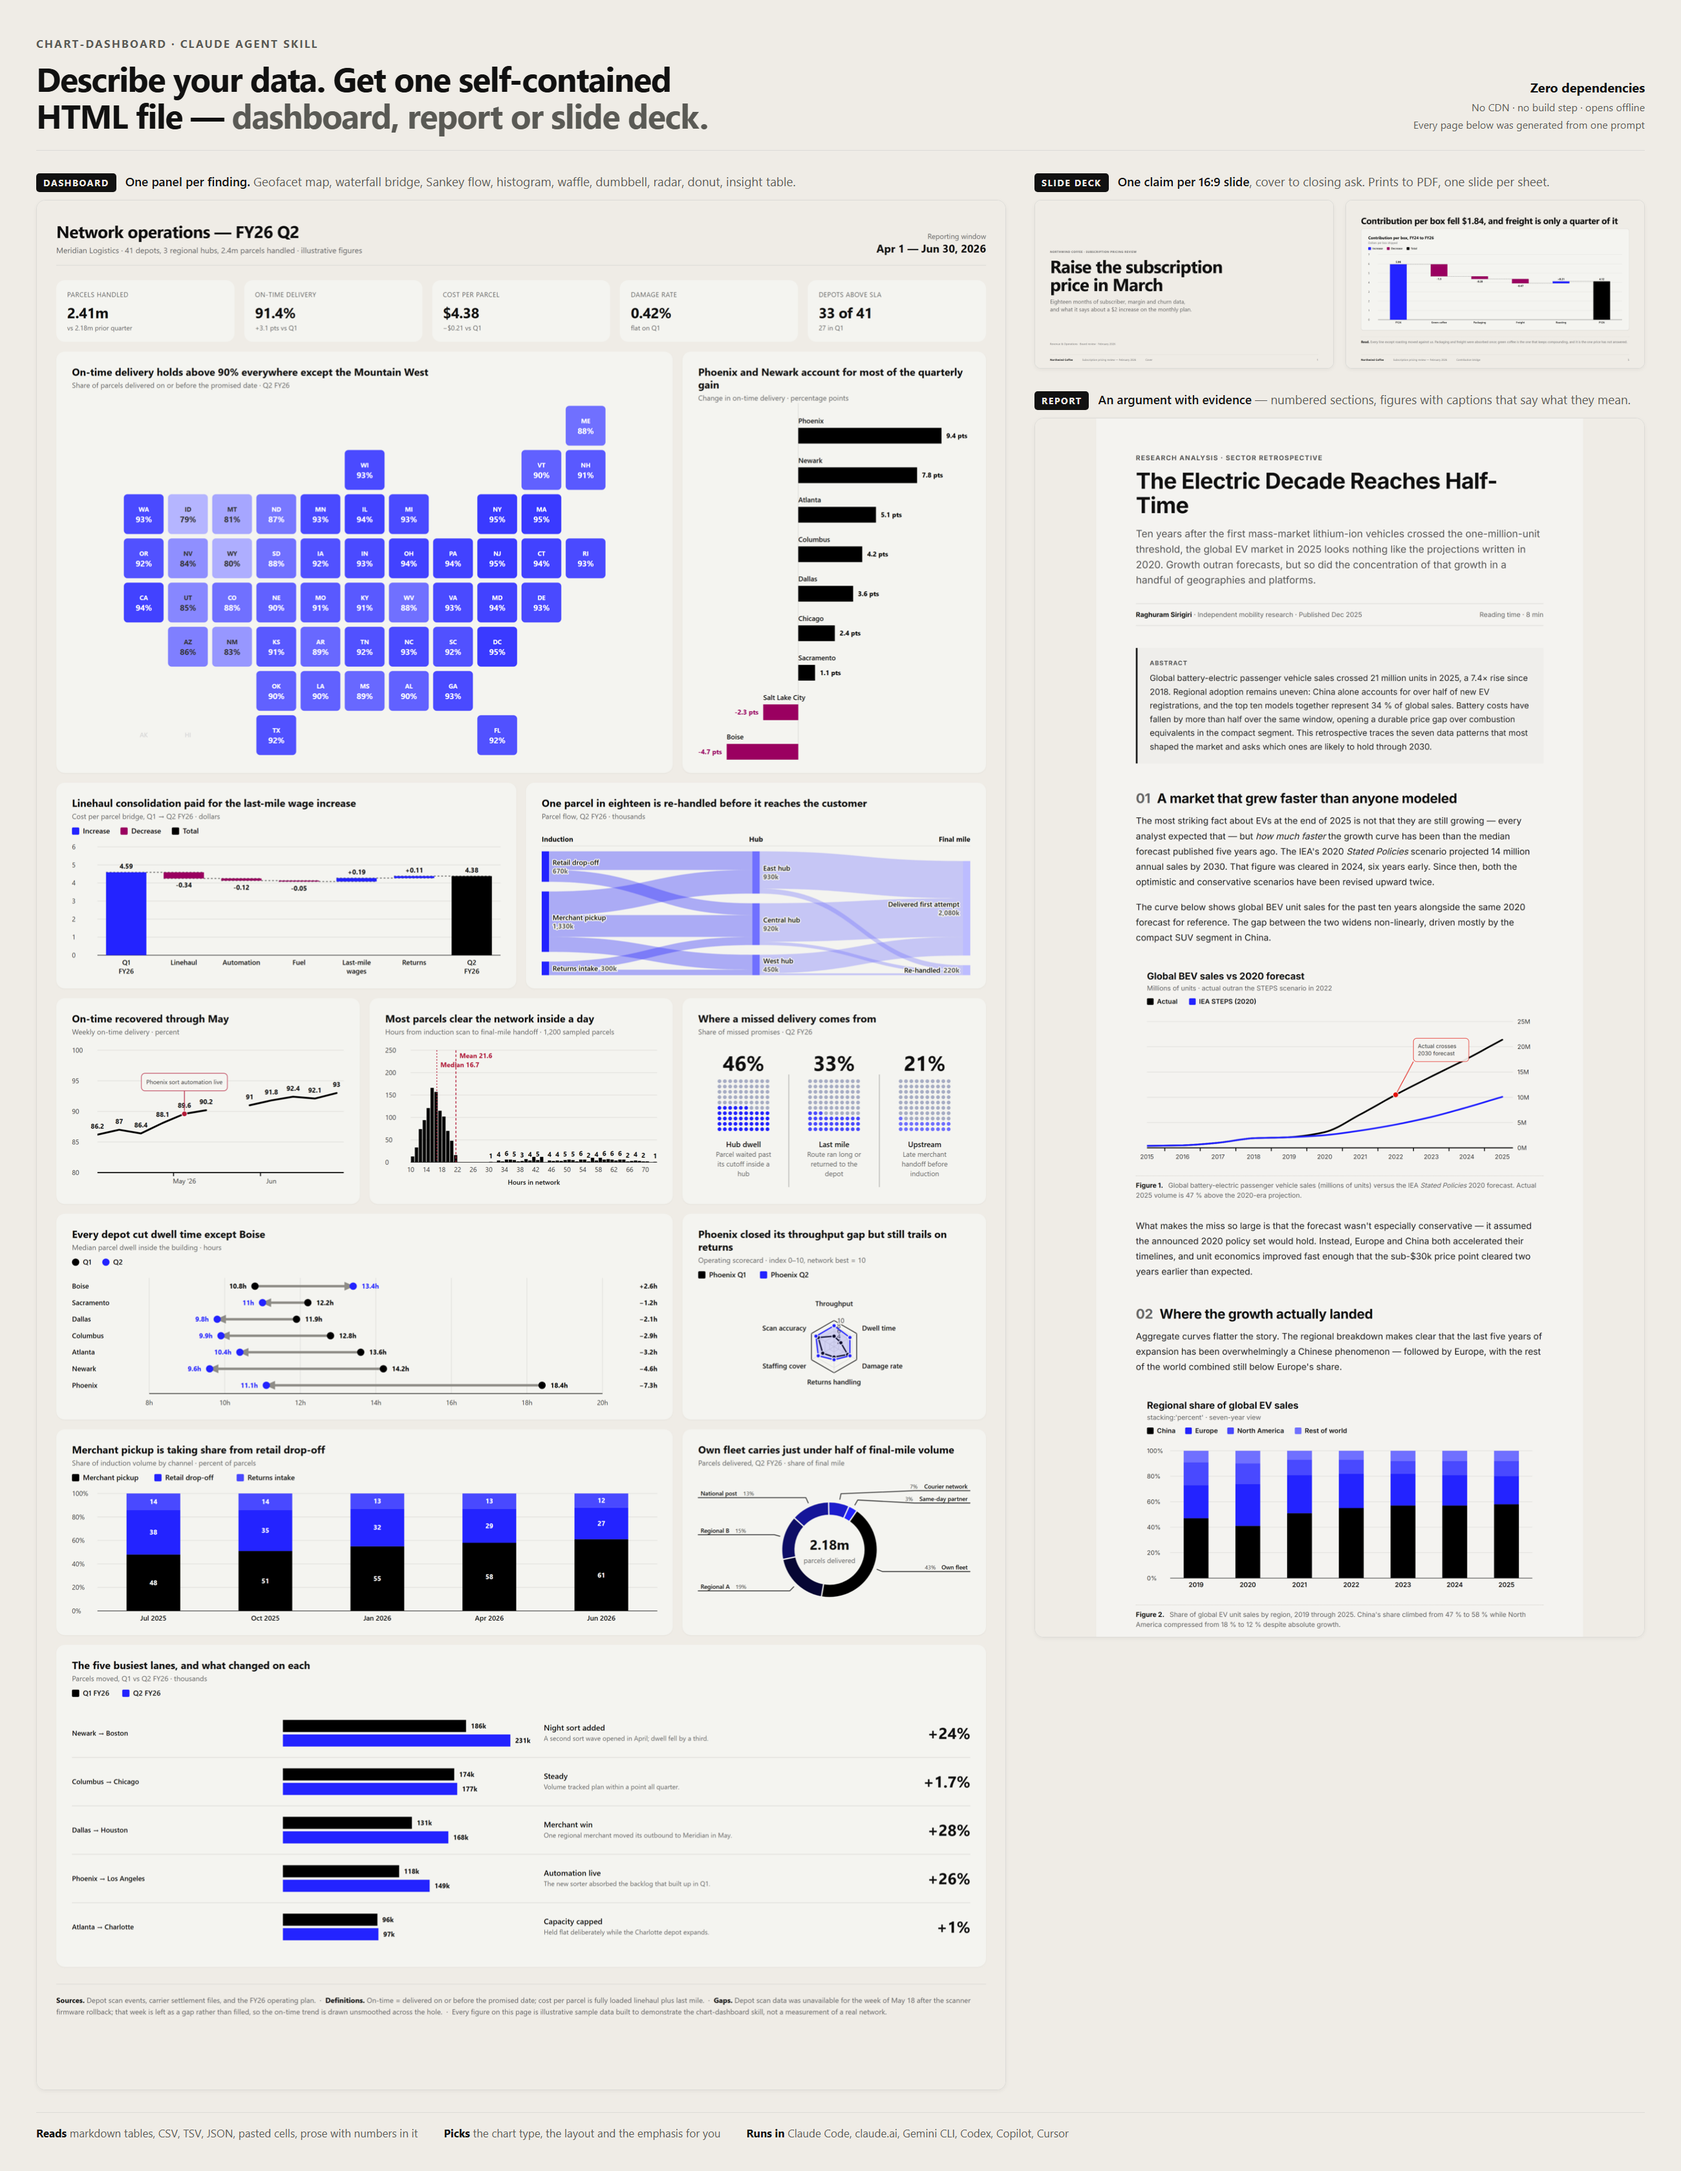
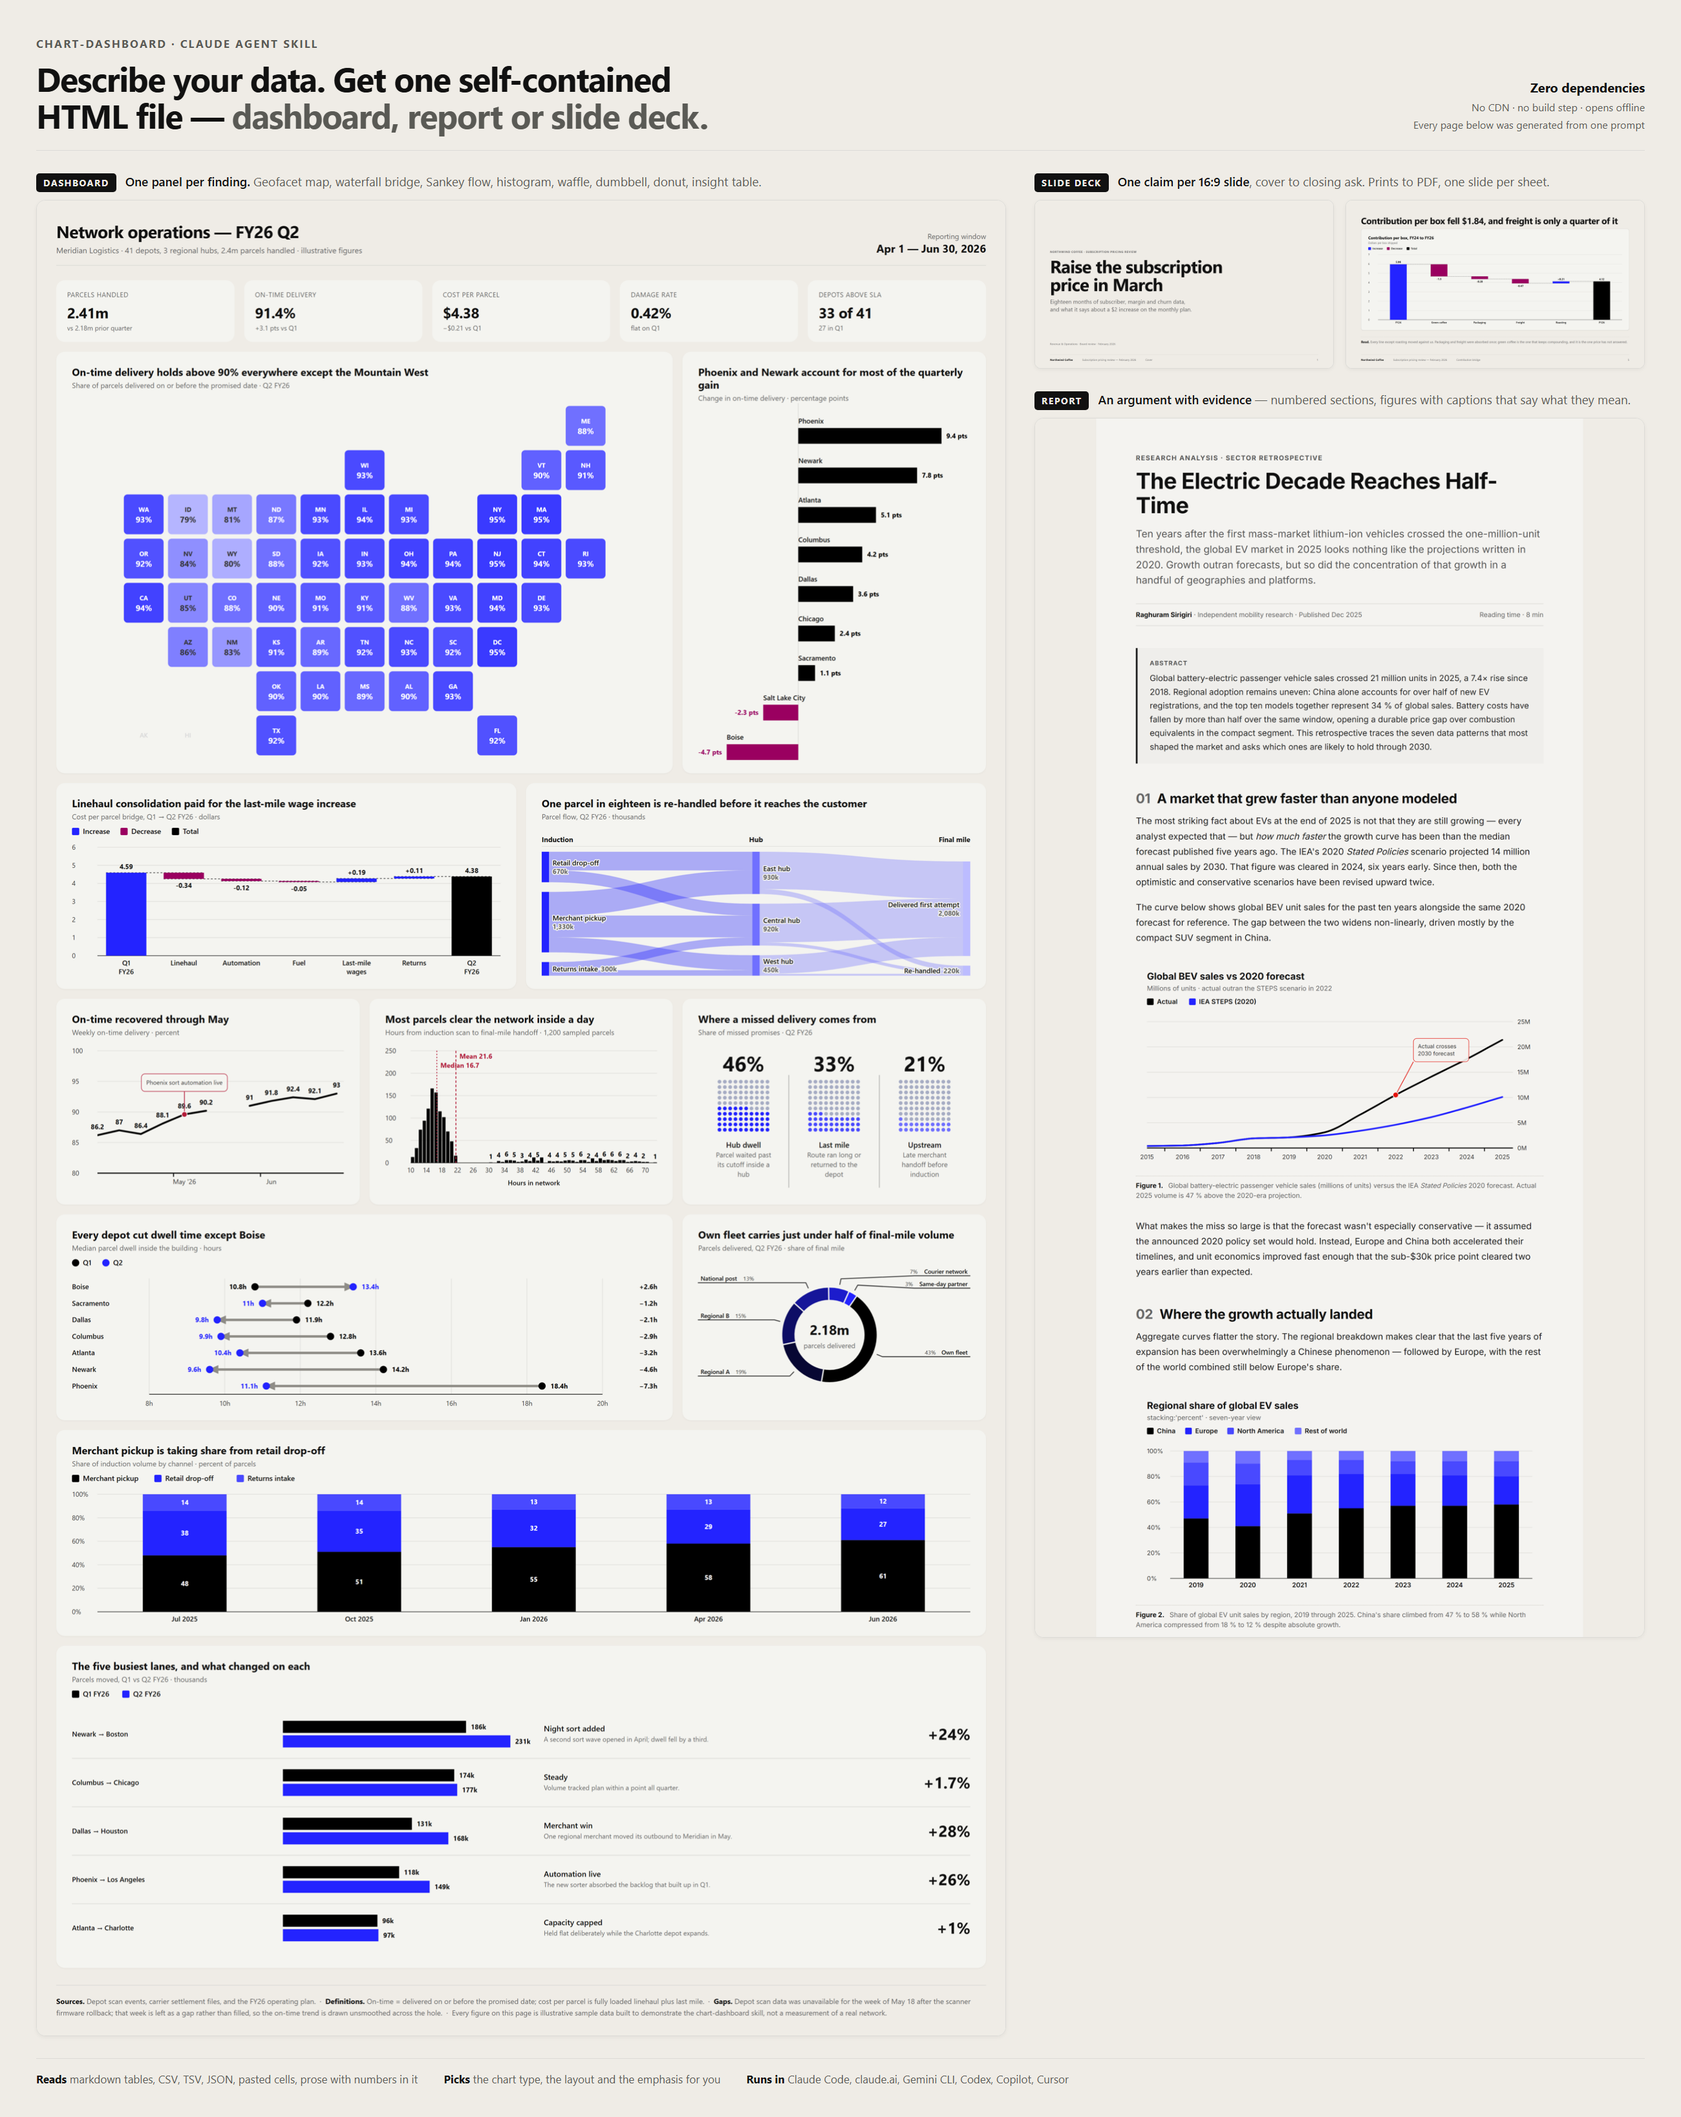
refactor(examples): drop the radar panel so the dashboard grid is even
Ten panels instead of eleven, so the two-up layout below 1100px pairs every cell
without relying on the trailing-odd-cell fallback. The dumbbell now pairs with the
donut and the channel-mix column closes the grid full width, keeping every row at
twelve columns in the three-up layout too.

Screenshots rebuilt from the shorter page, and the radar is dropped from the
example descriptions in the README, the examples README and the docs page — it
stays in the supported-chart-family lists, which are unchanged.

diff --git a/docs/index.html b/docs/index.html
@@ -232,7 +232,7 @@
   </div>
 
   <img class="shot" src="screenshot.png"
-       alt="Labelled composition of three pages generated by the chart-dashboard Claude skill: on the left a dashboard captioned 'one panel per finding' with a geofacet tile map of on-time delivery by US state, a waterfall cost bridge, a Sankey parcel-flow diagram, a histogram, waffle grids, a dumbbell chart, a radar scorecard, a donut and a bar insight table; top right a 16:9 slide deck captioned 'one claim per slide' showing a cover and an evidence slide; below it a narrative report captioned 'an argument with evidence'">
+       alt="Labelled composition of three pages generated by the chart-dashboard Claude skill: on the left a dashboard captioned 'one panel per finding' with a geofacet tile map of on-time delivery by US state, a waterfall cost bridge, a Sankey parcel-flow diagram, a histogram, waffle grids, a dumbbell chart, a donut and a bar insight table; top right a 16:9 slide deck captioned 'one claim per slide' showing a cover and an evidence slide; below it a narrative report captioned 'an argument with evidence'">
   <figcaption>A dashboard, a deck and a report, each generated from a single prompt.
     All three are committed in the repo under <code>examples/</code>.</figcaption>
 
@@ -312,8 +312,8 @@ follow `.agent-skills/chart-dashboard/SKILL.md`.</code></pre>
   <ul>
     <li><b><a href="https://github.com/raghuramsirigiri/raghuram-skills/tree/main/examples/logistics-network-dashboard">Operations dashboard</a></b>
       — one standalone file: a geofacet tile map by US state, a cost waterfall bridge,
-      a Sankey flow, a histogram, waffle grids, a dumbbell, a radar scorecard, a 100%
-      stacked column, a donut and a bar insight table.</li>
+      a Sankey flow, a histogram, waffle grids, a dumbbell, a 100% stacked column, a
+      donut and a bar insight table.</li>
     <li><b><a href="https://github.com/raghuramsirigiri/raghuram-skills/tree/main/examples/coffee-pricing-deck">Pricing decision deck</a></b>
       — fifteen 16:9 slides: cover, agenda, section dividers, split and full-bleed
       evidence, a KPI strip, a two-option compare, a timeline, a quote, a big-stat

diff --git a/examples/logistics-network-dashboard/index.html b/examples/logistics-network-dashboard/index.html
@@ -125,10 +125,9 @@
     <div class="cell w4"><div class="chart" id="c-waffle"></div></div>
 
     <div class="cell w8"><div class="chart" id="c-hubs"></div></div>
-    <div class="cell w4"><div class="chart" id="c-scorecard"></div></div>
-
-    <div class="cell w8"><div class="chart" id="c-mix"></div></div>
     <div class="cell w4"><div class="chart" id="c-carriers"></div></div>
+
+    <div class="cell w12"><div class="chart" id="c-mix"></div></div>
   </div>
 
   <div class="bento flow">
@@ -14476,20 +14475,6 @@ Charts.dumbbell('c-hubs', {
   series: [
     { name: 'Q1', data: [14.2, 12.8, 13.6, 11.9, 18.4, 12.2, 10.8] },
     { name: 'Q2', data: [ 9.6,  9.9, 10.4,  9.8, 11.1, 11.0, 13.4] }
-  ]
-});
-
-/* The profile of one depot across measures that share a single 0-10 index. */
-Charts.radar('c-scorecard', {
-  title: 'Phoenix closed its throughput gap but still trails on returns',
-  subtitle: 'Operating scorecard · index 0–10, network best = 10',
-  xAxis: { categories: ['Throughput','Dwell time','Damage rate','Returns handling',
-    'Staffing cover','Scan accuracy'] },
-  yAxis: { max: 10 },
-  plotOptions: { radar: { fillOpacity: 0.16 } },
-  series: [
-    { name: 'Phoenix Q1', data: [4, 3, 6, 4, 5, 7], fillOpacity: 0 },
-    { name: 'Phoenix Q2', data: [8, 7, 7, 5, 7, 8] }
   ]
 });
 

diff --git a/README.md b/README.md
@@ -19,7 +19,7 @@ that can read a file.
 
 📖 **[Full documentation and FAQ →](https://raghuramsirigiri.github.io/raghuram-skills/)**
 
-![Labelled composition of three pages generated by the chart-dashboard Claude skill: on the left a dashboard captioned 'one panel per finding' with a geofacet tile map of on-time delivery by US state, a waterfall cost bridge, a Sankey parcel-flow diagram, a histogram, waffle grids, a dumbbell chart, a radar scorecard, a donut and a bar insight table; top right a 16:9 slide deck captioned 'one claim per slide' showing a cover and an evidence slide; below it a narrative report captioned 'an argument with evidence'](examples/screenshot.png)
+![Labelled composition of three pages generated by the chart-dashboard Claude skill: on the left a dashboard captioned 'one panel per finding' with a geofacet tile map of on-time delivery by US state, a waterfall cost bridge, a Sankey parcel-flow diagram, a histogram, waffle grids, a dumbbell chart, a donut and a bar insight table; top right a 16:9 slide deck captioned 'one claim per slide' showing a cover and an evidence slide; below it a narrative report captioned 'an argument with evidence'](examples/screenshot.png)
 
 <sub>One dashboard, one deck and one report, each built by the skill from a single prompt. All three are in [`examples/`](examples/) as single HTML files that open offline.</sub>
 
@@ -238,12 +238,11 @@ no network needed.
 A quarterly operations dashboard in one standalone file (719 KB, library inlined):
 a geofacet tile map of on-time delivery by US state, a cost-per-parcel waterfall
 bridge, a Sankey of parcel flow through the hubs, a histogram of time in network,
-waffle grids, a dumbbell of hub dwell before and after, a radar scorecard, a
-100% stacked column of channel mix, a donut, and a bar insight table of the five
-busiest lanes. A missing week of scan data is left as a visible gap rather than
+waffle grids, a dumbbell of hub dwell before and after, a 100% stacked column of
+channel mix, a donut, and a bar insight table of the five busiest lanes. A missing week of scan data is left as a visible gap rather than
 filled in.
 
-[![Operations dashboard generated by the chart-dashboard skill, with a geofacet tile map of on-time delivery by US state, a waterfall cost bridge, a Sankey parcel-flow diagram, a histogram, waffle charts, a dumbbell chart and a bar insight table](examples/logistics-network-dashboard/screenshot.png)](examples/logistics-network-dashboard/)
+[![Operations dashboard generated by the chart-dashboard skill, with a geofacet tile map of on-time delivery by US state, a waterfall cost bridge, a Sankey parcel-flow diagram, a histogram, waffle charts, a dumbbell chart, a donut and a bar insight table](examples/logistics-network-dashboard/screenshot.png)](examples/logistics-network-dashboard/)
 
 ### Slide deck — [`coffee-pricing-deck/`](examples/coffee-pricing-deck/)
 

diff --git a/examples/README.md b/examples/README.md
@@ -4,12 +4,14 @@ Finished output from the [chart-dashboard Claude Skill](../README.md). Every fol
 is fully self-contained: download `index.html`, double-click it, and it renders —
 no server, no network, no build step, no npm install.
 
-Each example shows one of the three formats the skill produces, and between them
-they cover every chart family in the bundled `charts-lib` renderer.
+Each example shows one of the three formats the skill produces, across most of the
+chart families in the bundled `charts-lib` renderer. The full list of families —
+including radar, scatter, bubble and the `panels` compositor — is in the
+[main README](../README.md#which-chart-types-are-supported).
 
 | Example | Format | Charts it uses | Preview |
 |:--|:--|:--|:--|
-| [`logistics-network-dashboard/`](logistics-network-dashboard/) | **Dashboard** (single file) | Geofacet tile map, bar list, waterfall bridge, Sankey flow, line with a real gap and a callout, histogram, waffle, dumbbell, radar, 100% stacked column, donut, bar insight table | [screenshot](logistics-network-dashboard/screenshot.png) |
+| [`logistics-network-dashboard/`](logistics-network-dashboard/) | **Dashboard** (single file) | Geofacet tile map, bar list, waterfall bridge, Sankey flow, line with a real gap and a callout, histogram, waffle, dumbbell, 100% stacked column, donut, bar insight table | [screenshot](logistics-network-dashboard/screenshot.png) |
 | [`coffee-pricing-deck/`](coffee-pricing-deck/) | **Slide deck** (single file, 16:9) | Line, waterfall, column comparison, dumbbell — across cover, agenda, section dividers, split, full-bleed, KPI strip, compare, timeline, quote, stat and closing-ask layouts | [screenshot](coffee-pricing-deck/screenshot.png) |
 | [`ev-retrospective/`](ev-retrospective/) | **Report** | Narrative analysis in a paper column — numbered sections, figures with interpretive captions, pull quotes, source notes | [screenshot](ev-retrospective/screenshot.png) |
 | [`q4-ecommerce/`](q4-ecommerce/) | **Dashboard** | 20-panel bento grid: revenue trend with annotated spikes, channel and device mix, category comparisons, funnel and cohort views, full-width composition | [screenshot](q4-ecommerce/screenshot.png) |
